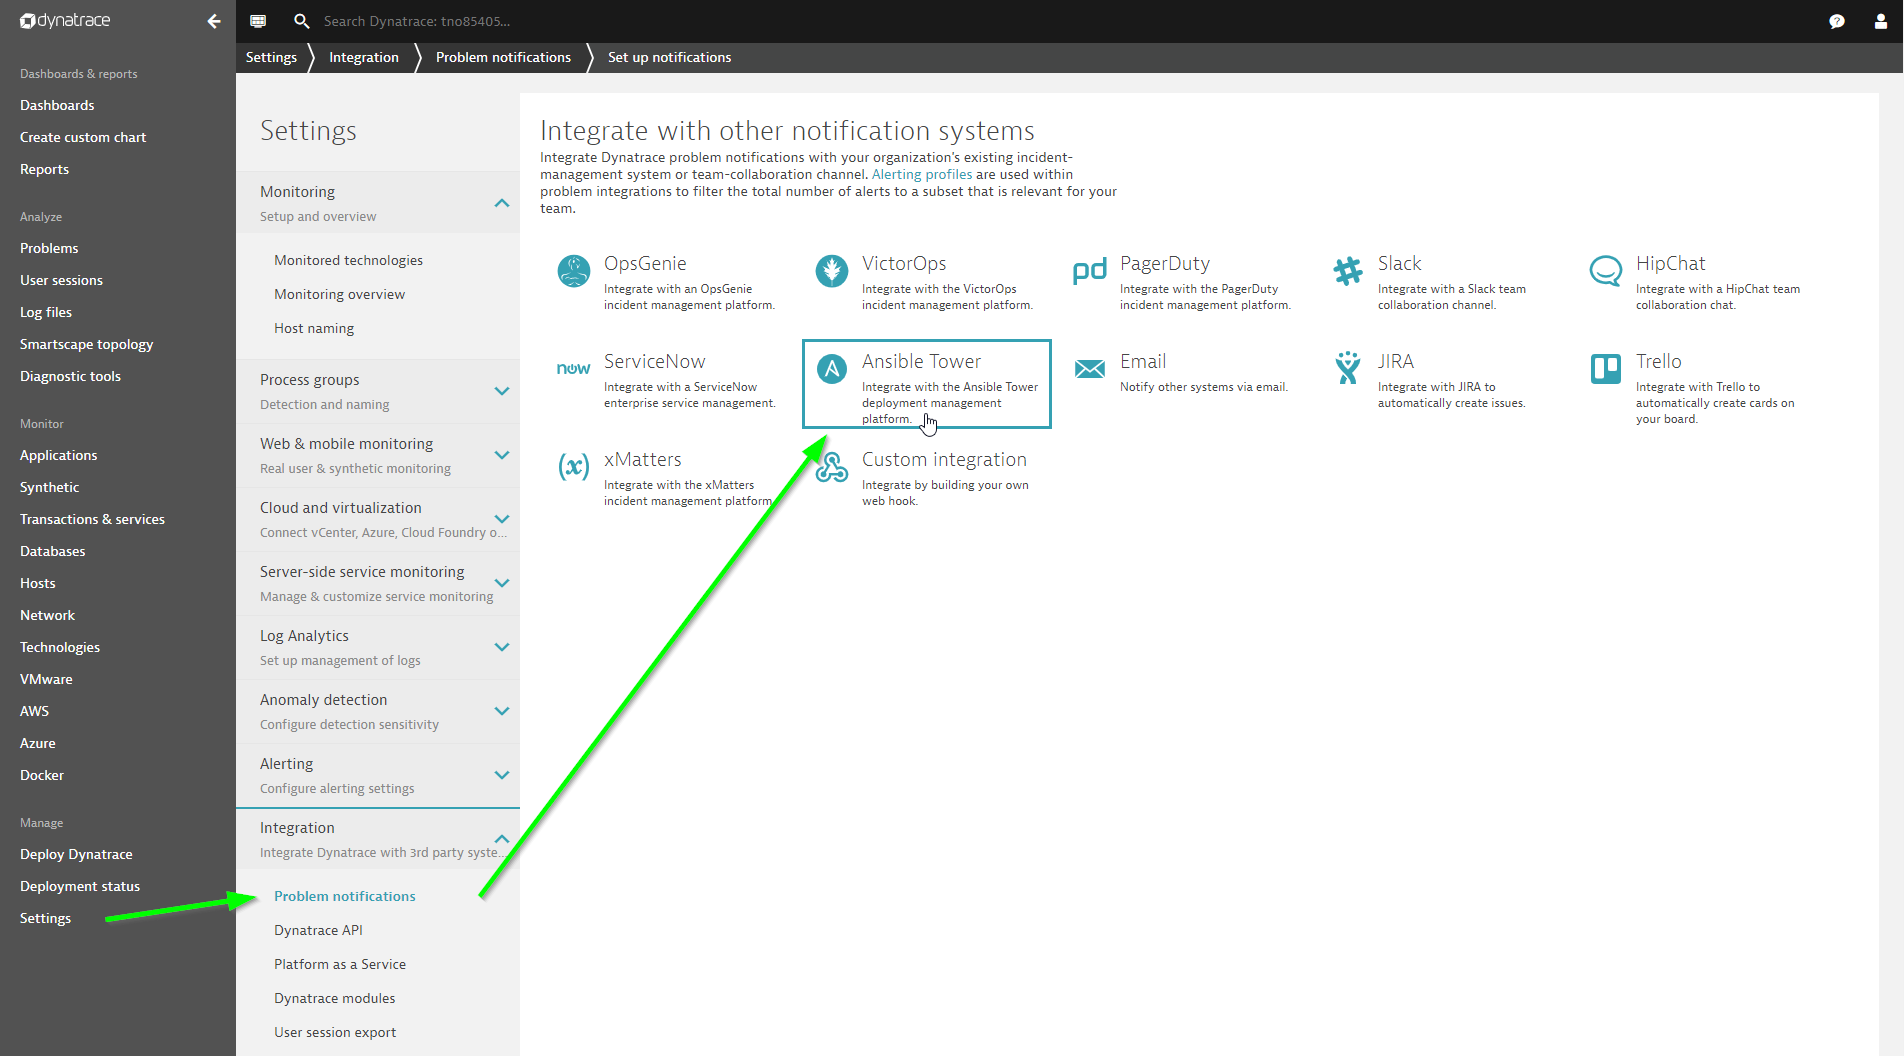
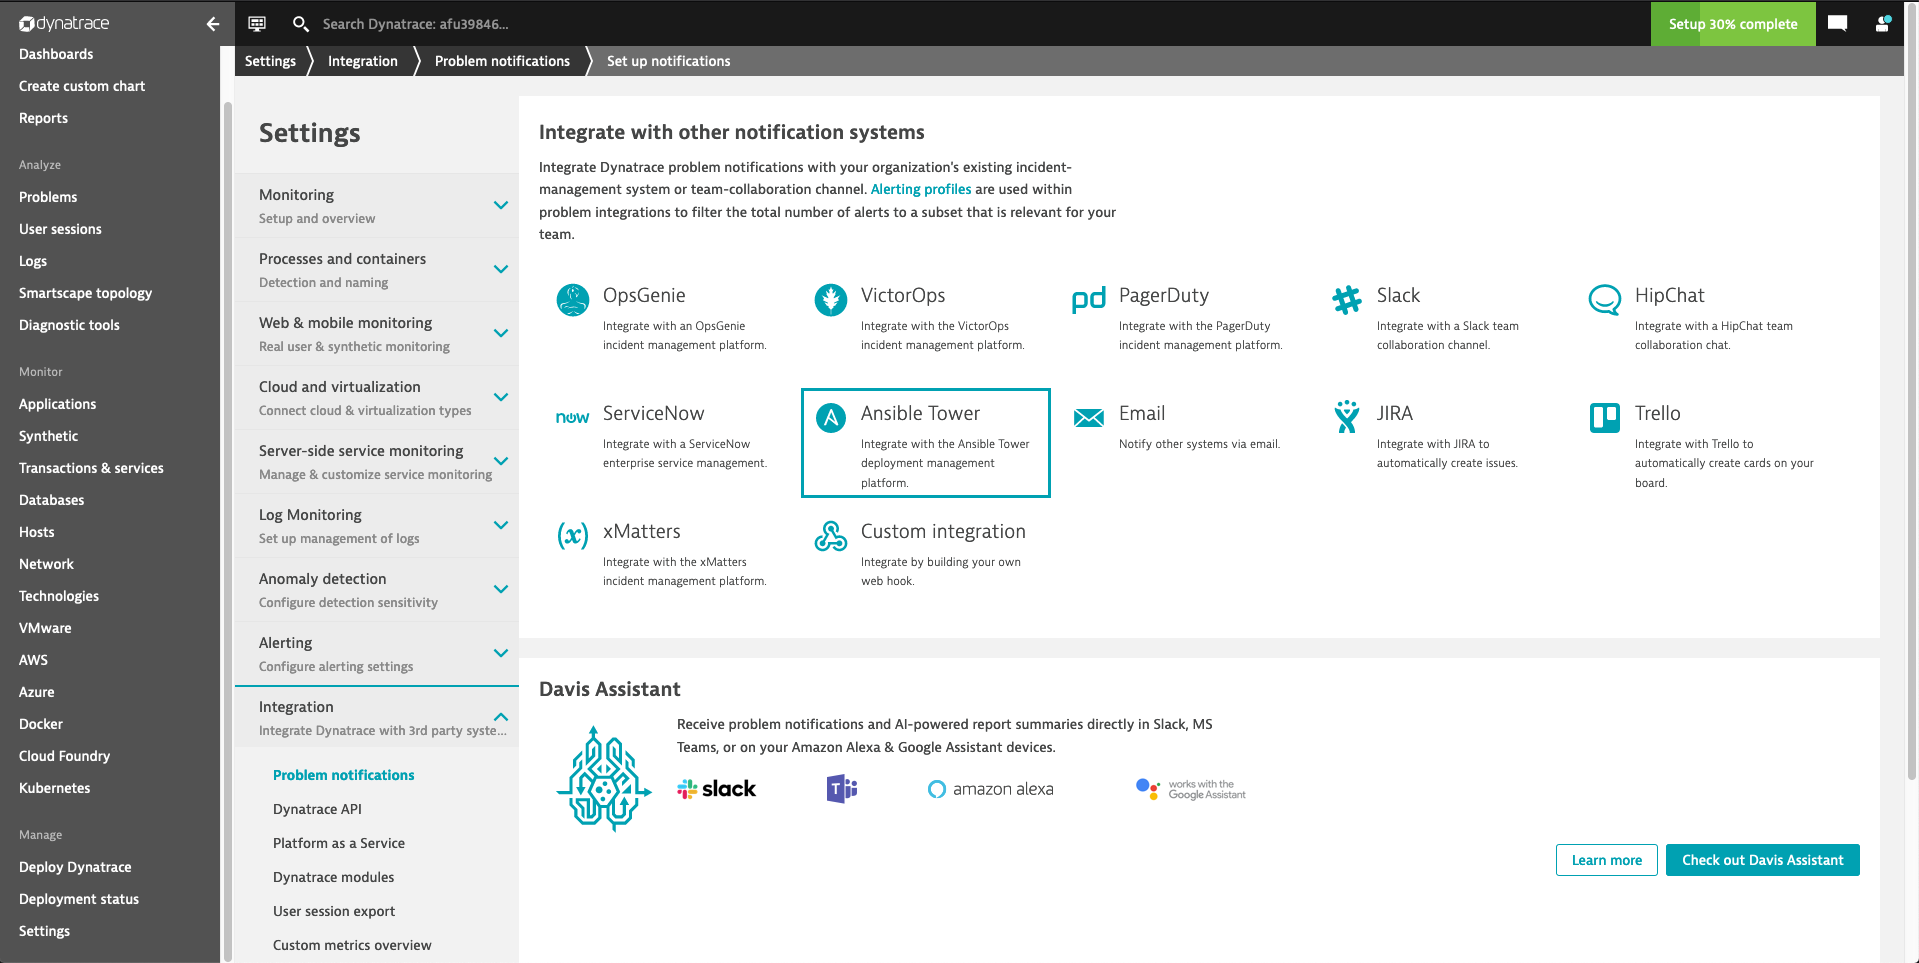
updated instructions and screenshots for new problem notification screen

diff --git a/workshop/09_Runbook_Automation_and_Self_Healing/03_Setup_Dynatrace/README.md b/workshop/09_Runbook_Automation_and_Self_Healing/03_Setup_Dynatrace/README.md
@@ -3,8 +3,10 @@
 Let us integration the defined _remediation runbook_ in Dynatrace in a way, that it will be called each time Dynatrace detects a problem. Please note that in a more enterprise scenario, you might want to define _Alerting profiles_ to be able to control in a more fine-grained way when to call a remediation runbook.
 
 1. Setup a **Problem Notification** in Dynatrace
-    - Navigate to _Settings -> Integration -> Problem notification -> Ansible Tower_ 
+    - Navigate to _Settings -> Integration -> Problem notifications_
+    - Select `Set up Notifications` and then click `Ansible Tower`.
 
+    ![notifications](../assets/setup-notifications.png)
     ![integration](../assets/ansible-integration.png)
 
 1. Enter your Ansible Tower job template URL and Ansible Tower credentials.
